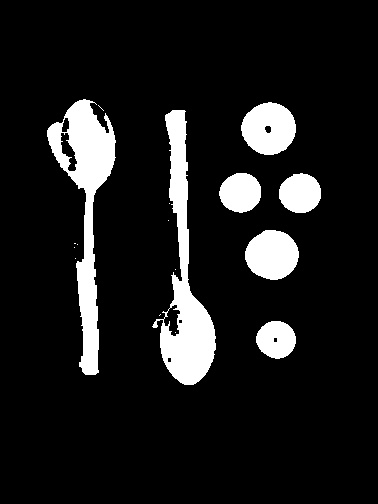
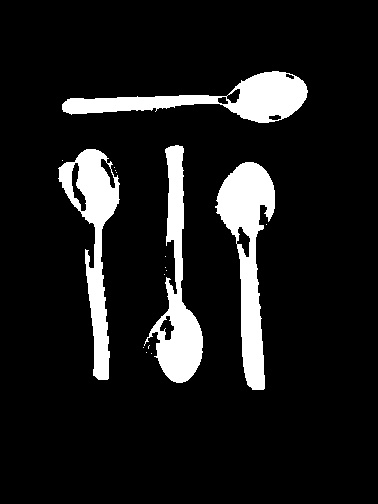
somethas

Changed region(s): [[0.1164, 0.119, 0.873, 0.7738]]

diff --git a/PythonForCounting/main.py b/PythonForCounting/main.py
@@ -263,7 +263,7 @@ def main():
 
 def temp_main():
     #img = cv.imread('Images/coins_evenlyLit.png')
-    img = cv.imread('Images/Goal1/spoonsAndCoins.jpg')
+    img = cv.imread('Images/Goal1/fourSpoon.jpg')
     img = cv.resize(img,((int(img.shape[1]/8)),int(img.shape[0]/8)))
 
     img_gs = makeGrayscale(img)
@@ -271,7 +271,8 @@ def temp_main():
     img_binary_closed = morph.close(img_binary,3)
     img_binary_open = morph.open(img_binary_closed,1)
     #img_binary_open = morph.erode(img_binary_open,15)
-    img_output = cv.cvtColor(img_binary_open,cv.COLOR_GRAY2BGR)
+    img_binary_median = cv.medianBlur(img_binary_open,5)
+    img_output = cv.cvtColor(img_binary_median,cv.COLOR_GRAY2BGR)
 
     blobs = grassfire(img_binary_open)
     blob_count = 0
@@ -308,6 +309,7 @@ def temp_main():
     cv.imshow('binary',img_binary)
     cv.imshow('closed',img_binary_closed)
     cv.imshow('open',img_binary_open)
+    cv.imshow('median',img_binary_median)
     cv.imshow(f'Found items: {blob_count}',img_output)
     cv.imwrite('Images/Goal1/coinsAndSpoons/goal1_coinsAndSpoons_1input.jpg',img)
     cv.imwrite('Images/Goal1/coinsAndSpoons/goal1_coinsAndSpoons_2grayscale.jpg',img_gs)
